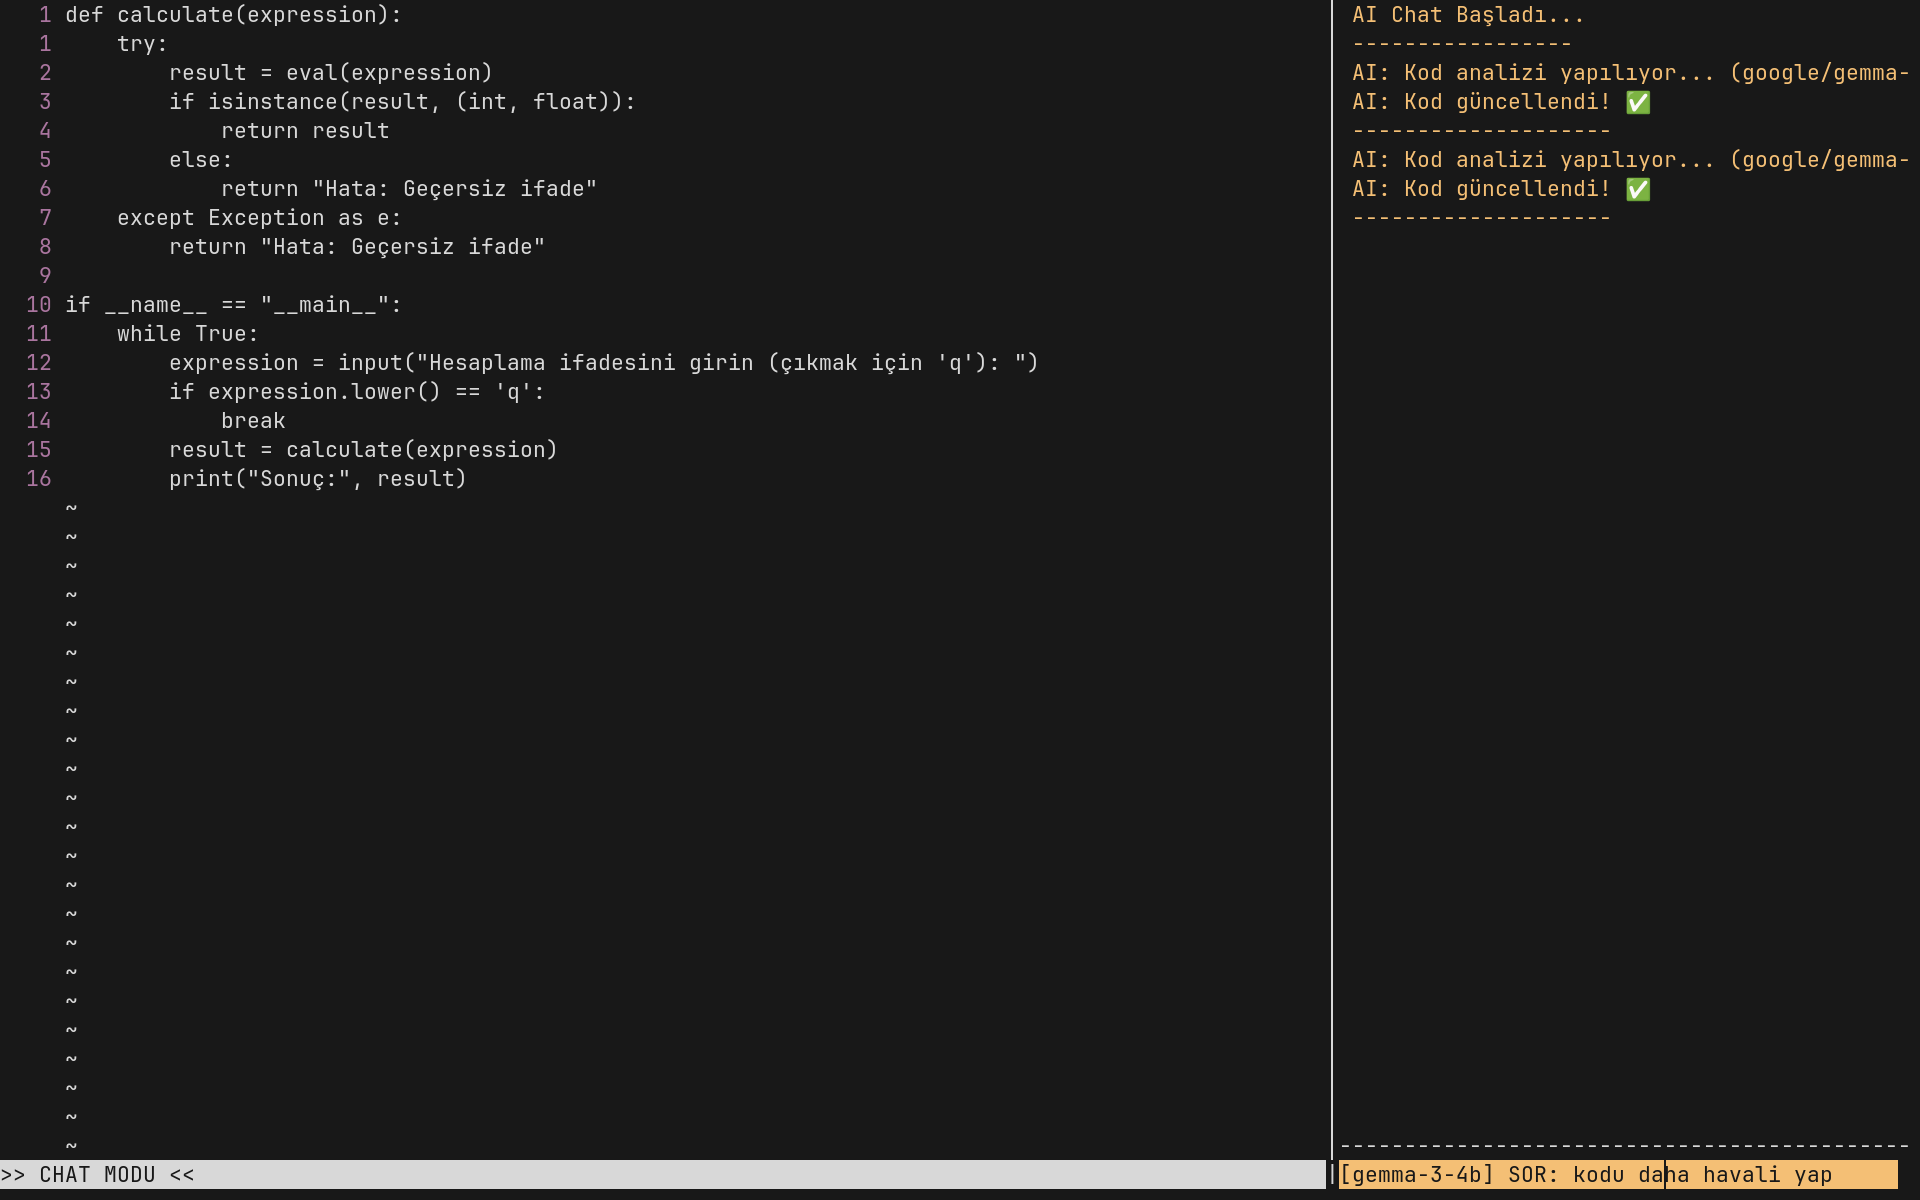
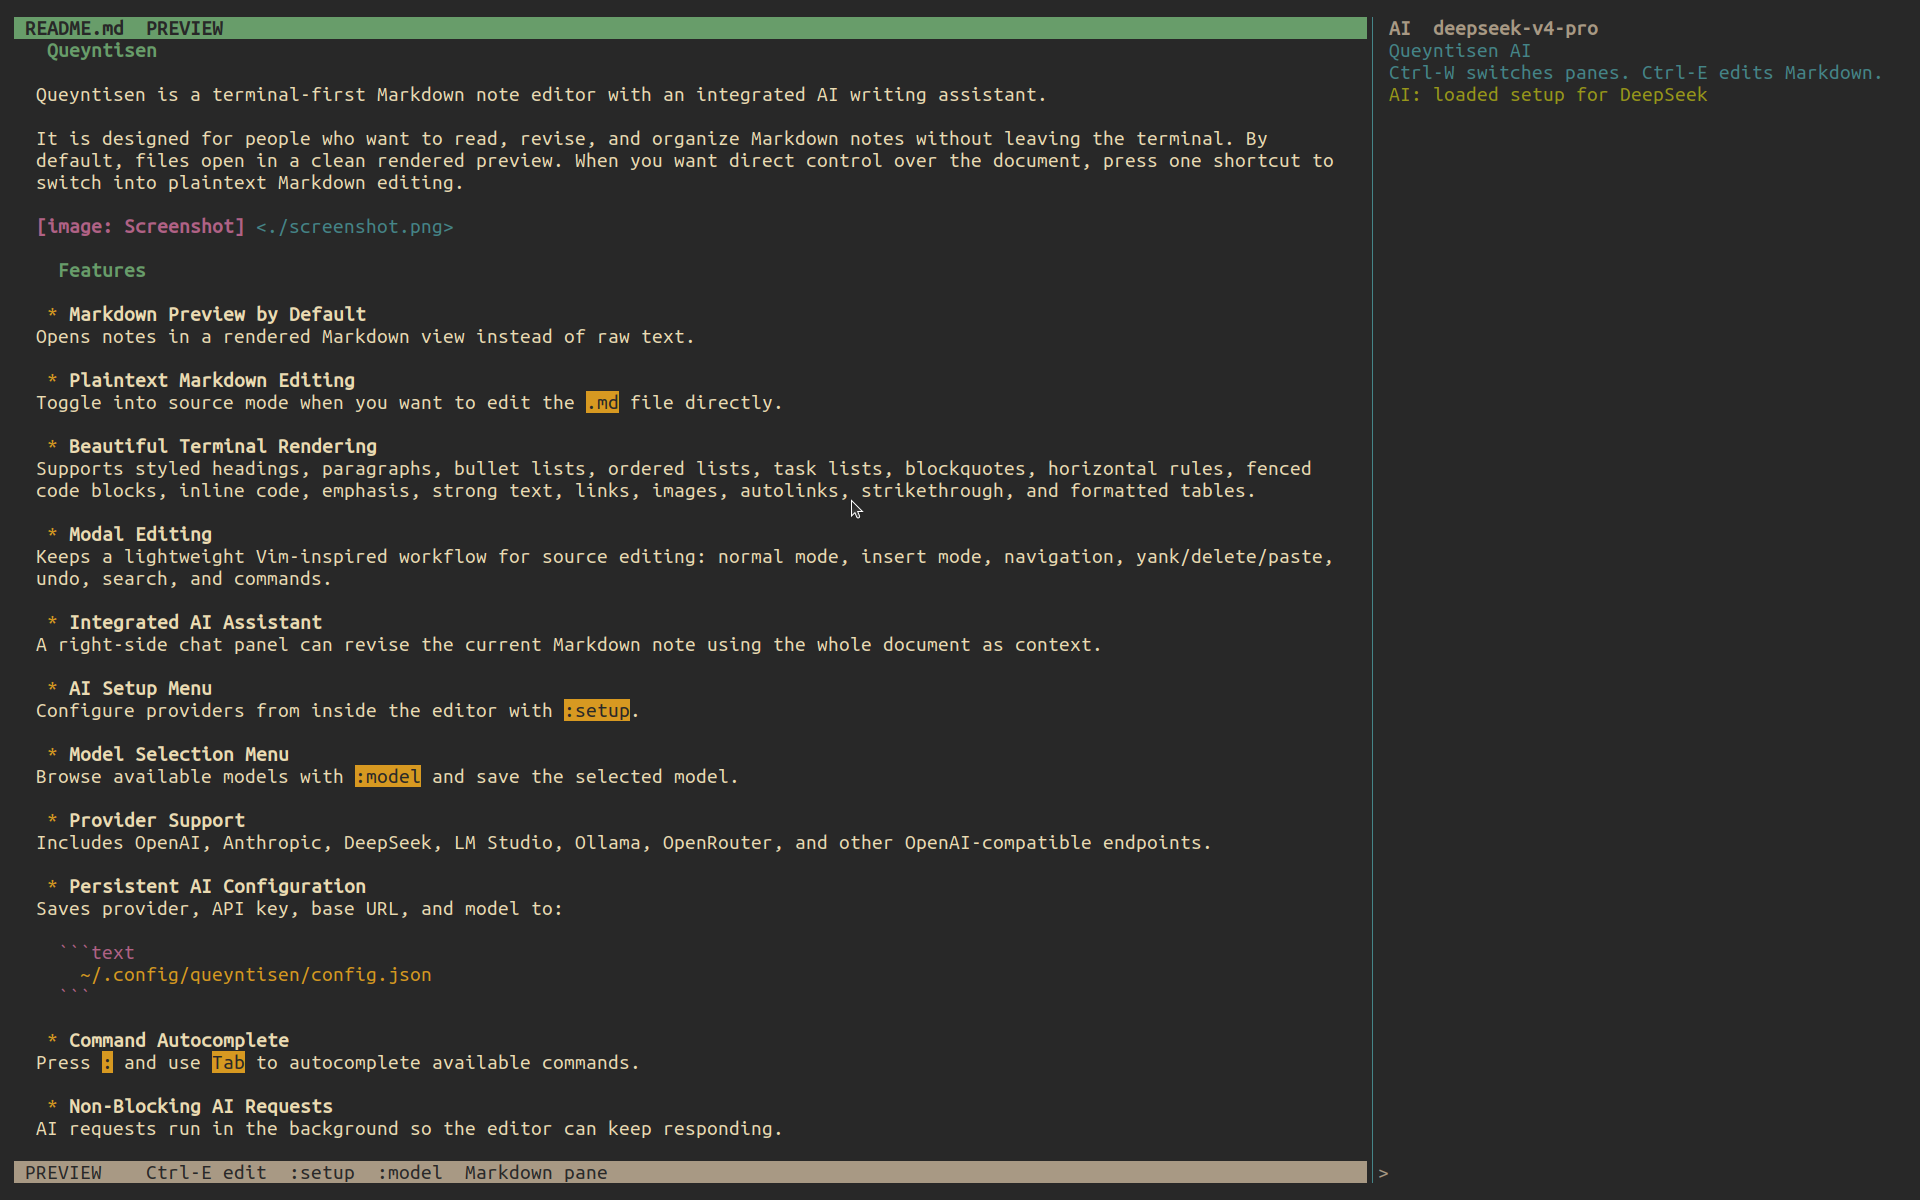
Update screenshot and add Obsidian comparison to README

diff --git a/README.md b/README.md
@@ -4,6 +4,8 @@ Queyntisen is a terminal-first Markdown note editor with an integrated AI writin
 
 It is designed for people who want to read, revise, and organize Markdown notes without leaving the terminal. By default, files open in a clean rendered preview. When you want direct control over the document, press one shortcut to switch into plaintext Markdown editing.
 
+Queyntisen is a terminal-native alternative to Obsidian. Where Obsidian runs on Electron and keeps you in a GUI, Queyntisen lives in your terminal — fast, keyboard-driven, and distraction-free. More importantly, while Obsidian needs community plugins to bolt on any AI functionality, Queyntisen ships with a first-class AI writing assistant that sees your entire document as context. No plugin setup, no API wrangling in a separate window — press `Ctrl-W`, describe what you want, and the AI revises your note directly in the buffer. If you want the power of linked Markdown notes plus AI but prefer the terminal to a heavy desktop app, Queyntisen is built for you.
+
 ![Screenshot](./screenshot.png)
 
 ## Features